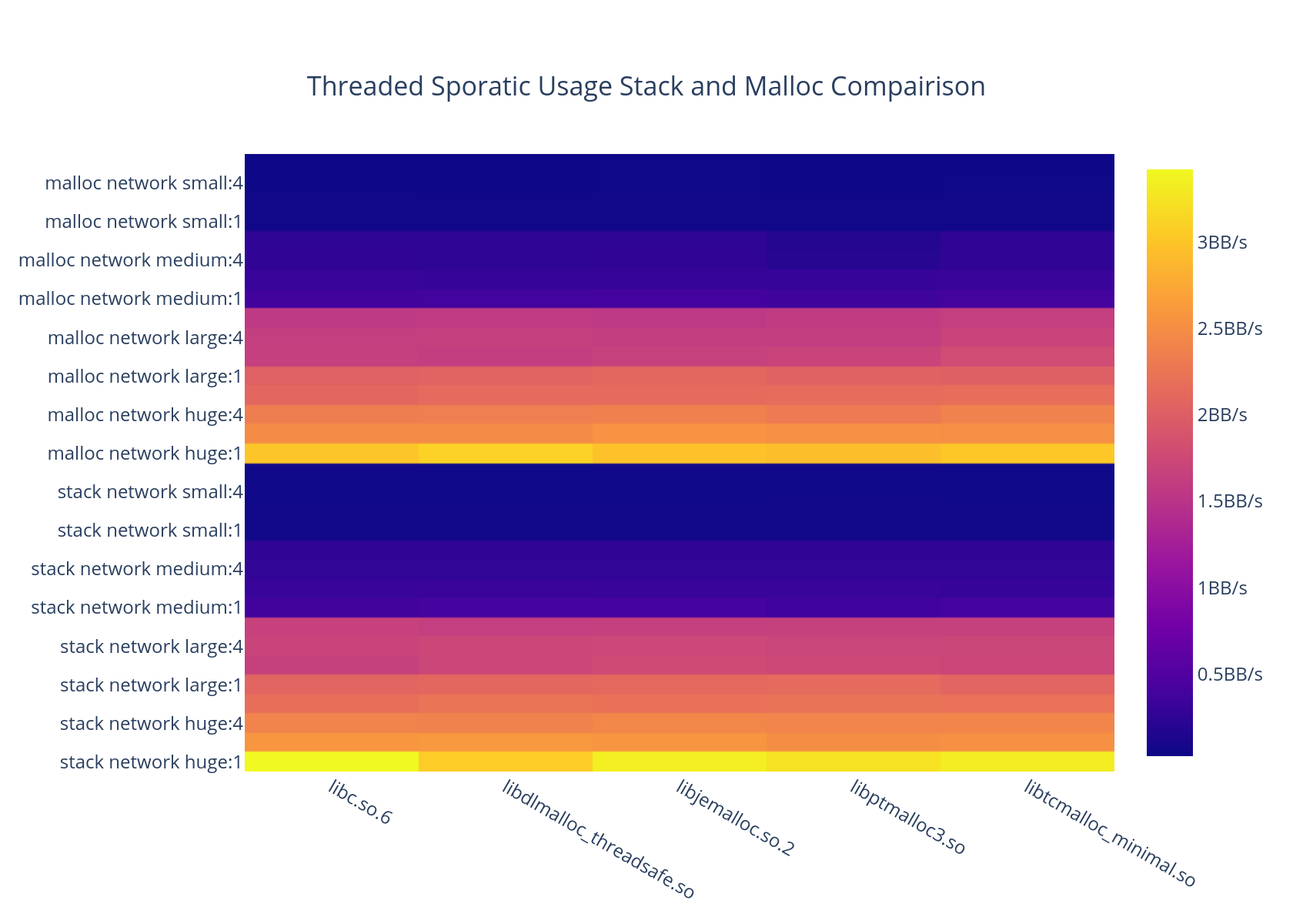
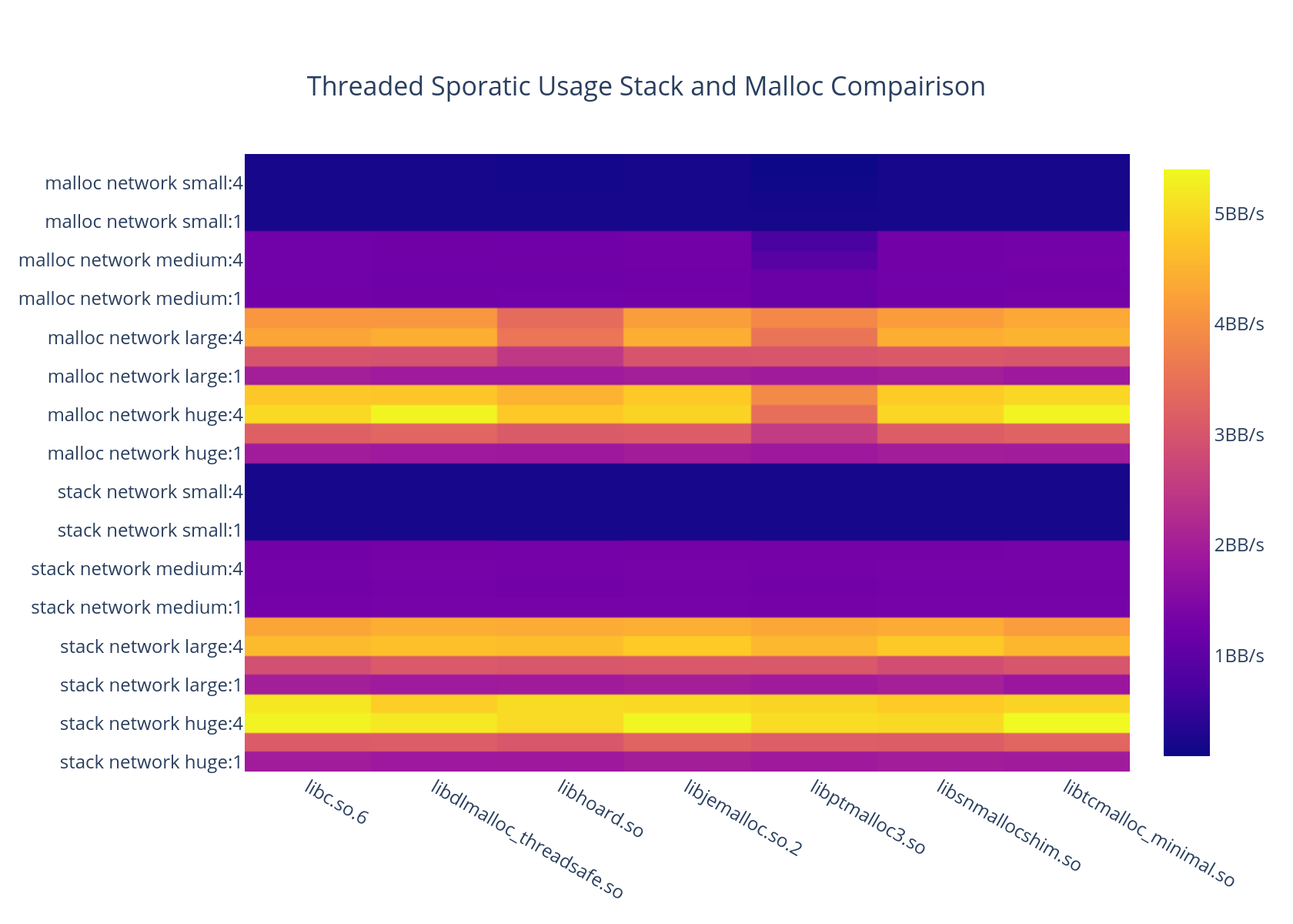
updated pictures and latex to account for snmalloc

diff --git a/docs/allocation.tex b/docs/allocation.tex
@@ -109,10 +109,7 @@ Stack and Heap Allocations: A Cost Comparison
 }
 
 
-\author{Michael D. Merrill$^{1}$% <-this % stops a space
-\thanks{$^{1}$Michael is a Masters student in Computer Sciences, Georgia Tech,
-and a developer for the  }%
-}
+\author{Michael D. Merrill$^{1}$}
 
 % \widowpenalties 1 10000
 % \raggedbottom
@@ -140,13 +137,13 @@ The source code is publicly available at \url{\GitHubLoc}.
 \section{INTRODUCTION}
 
 Allocation algorithms are designed to limit the overhead related to memory management.
-The most common design goals include considerations for computational expenses, effectiveness allocation size, and to provide discrete blocks of memory. 
+The most common design goals include considerations for computational expenses, fragmentation avoidance, and providing discrete blocks of memory. 
 Stack allocation on commonly used architectures, such as Intel x86, involve changing the value of a register to allocate additional space, and are thus standardized by the architecture.
 Dynamic allocation, in contrast, is defined by userspace libraries.
-This allows for multiple implementations of allocators, as well as specialized allocators which offer increased performance benefits for their use cases. 
+This allows for multiple implementations of allocators, as well as specialized allocators which offer increased performance benefits for their intended use cases. 
 
-This paper addresses the performance costs incurred through the use of the stack and heap across their various allocation methods. 
-A number of test algorithms will be used as measurements. 
+This paper addresses the performance costs incurred through the use of the stack and heap across various allocation methods. 
+A number of test algorithms are used as measurements. 
 Each will attempt to measure a discrete feature and function common to all allocation algorithms. 
 Care is taken to ensure that tests do not favor one method over another through intentional use of compiler hints and directives. 
 The test algorithms are designed to mimic common, real world use cases of allocated memory as well as the academic and theoretical maximums of each allocation type. 
@@ -155,26 +152,25 @@ The test algorithms are designed to mimic common, real world use cases of alloca
 %%%%%%%%%%%%%%%%%%%%%%%%%%%%%%%%%%%%%%%%%%%%%%%%%%%%%%%%%%%%%%%%%%%%%%%%%%%%%%%%
 \section{Algorithms}
 
-Algorithm \ref{light_usage_algorithm} is designed to test the baseline performance of the allocator.
+\hyperref[light_usage_algorithm]{Algorithm \ref*{light_usage_algorithm}} is designed to test the baseline performance of the allocator.
 Memory of size $S$ is allocated and stored in the variable $M$.
 A constant value $C$ is then stored at an arbitrary location within the allocated memory, $M_\text{R}$.
 Finally, the memory is deallocated and released to be used by the next iteration or another part of the overall program.
 This is continued until the test is finished; a time determined by the experiment implementation.
 
 \begin{algorithm}[h]
-\caption{Allocation with Light Usage}
-\begin{algorithmic}
-
-\WHILE{test is not finished}
-  \STATE $M \leftarrow allocate(S)$
-  \STATE $M_\text{R} \leftarrow C$
-  \STATE $deallocate(M)$
-\ENDWHILE
-\end{algorithmic}
-\label{light_usage_algorithm}
+  \caption{Allocation with Light Usage}
+  \label{light_usage_algorithm}
+  \begin{algorithmic}
+    \WHILE{test is not finished}
+      \STATE $M \leftarrow allocate(S)$
+      \STATE $M_\text{R} \leftarrow C$
+      \STATE $deallocate(M)$
+    \ENDWHILE
+  \end{algorithmic}
 \end{algorithm}
 
-Algorithm \ref{struct_usage_algorithm}, in a method similar to algorithm \ref{light_usage_algorithm}, begins by allocating memory and storing it into $M$.
+\hyperref[struct_usage_algorithm]{Algorithm \ref*{struct_usage_algorithm}}, in a method similar to \hyperref[light_usage_algorithm]{algorithm \ref*{light_usage_algorithm}}, begins by allocating memory and storing it into $M$.
 In this case $M$ is considered to be a \textbf{C} style structure or similar object of size $S$. 
 All of the members within $M$ are filled with appropriate data, simulating common usage of low level structures.
 After the structure is populated, the deallocation method is used to free the memory.
@@ -182,6 +178,7 @@ Once again, the algorithm loops until a stop condition is met.
 
 \begin{algorithm}[h]
   \caption{Allocation and Initialization of Data Structure}
+  \label{struct_usage_algorithm}
   \begin{algorithmic}
     \WHILE{test is not finished}
       \STATE $M \leftarrow allocate(S)$
@@ -191,10 +188,9 @@ Once again, the algorithm loops until a stop condition is met.
       \STATE $deallocate(M)$
     \ENDWHILE
   \end{algorithmic}
-\label{struct_usage_algorithm}
 \end{algorithm}
 
-One of the most common usages of allocated memory is in network operations, which Algorithm \ref{network_usage_algorithm}, attempts to capture.
+One of the most common usages of allocated memory is in network operations, which \hyperref[network_usage_algorithm]{Algorithm \ref*{network_usage_algorithm}}, attempts to capture.
 In a setup phase, prior to starting the benchmarked portion, a connection to a server is established.
 During the benchmark loop, memory of size $S$ is allocated and stored in $M$.
 Up to $C$ bytes are read from the server into the allocated memory at $M$.
@@ -203,22 +199,22 @@ The loop continues until the test is finished, and the socket is closed.
 
 \begin{algorithm}[h]
   \caption{Allocation with Network Usage}
+  \label{network_usage_algorithm}
   \begin{algorithmic}
-    \STATE $C \leftarrow open()$
+    \STATE $open()$
     \WHILE{test is not finished}
       \STATE $M \leftarrow allocate(S)$
       \STATE $M_\text{R} \leftarrow read(C)$
       \STATE $deallocate(M)$
     \ENDWHILE
-    \STATE $close(C)$
+    \STATE $close()$
   \end{algorithmic}
-  \label{network_usage_algorithm}
 \end{algorithm}
 
 
 %%%%%%%%%%%%%%%%%%%%%%%%%%%%%%%%%%%%%%%%%%%%%%%%%%%%%%%%%%%%%%%%%%%%%%%%%%%%%%%%
 \section{Experiment Methodologies}
-Google's open source Benchmark library is a ``microbenchmark'' framework developed using the Google Test suite.
+Google's open source Benchmark library is a \textit{``microbenchmark''} framework developed using the Google Test suite.
 Benchmark provides a comprehensive environment to gauge code snippet performance with an independent and repeatable approach.
 Each benchmark handler is written in \textbf{C++} and handles the test setup and teardown functionality.
 The portion of code which is being evaluated is written in \textbf{C} to minimize overhead associated with higher level languages, and to produce binary output which is verifiably identical to the associated algorithms.
@@ -231,7 +227,7 @@ Care is taken when discussing test results to ensure comparisons are conducted o
 The tests are measured using various allocation sizes.
 These sizes include \textit{32, 256, 4096, 32768} bytes referred to as small, medium, large, and Huge respectively.
 For each experiment the set of tests are also evaluated across multiple dynamic allocation implementations.
-The set of allocators include \textit{glibc, ptmalloc, jemalloc,} and \textit{tcmalloc}. %and \textit{hoard}.
+The set of allocators include \textit{glibc, ptmalloc, jemalloc, tcmalloc} and \textit{snmalloc}. %and \textit{hoard}.
 This cross section of commonly used general purpose allocators are run independently through dynamic loading.
 
 In order to evaluate each algorithm in multithreaded environments, each test is run with a number of concurrent threads.
@@ -239,37 +235,37 @@ Each test is initially run in a threadless environment for every baseline execut
 After the tests have been completed singly threaded, a multithreaded set of tests is run.
 These tests include running each algorithm with 1, 2, 4, and 8 threads to compare performance.
 
-All experiments are run on a dedicated VPS with $4 \times 2693.67$ MHz CPUs and $8$GB of ram.
-The results shown are the average completion time or throughput of an algorithm after being run for 20 iterations with a minimum of 1 second per iteration.
+All experiments were run in a virtual machine with $4 \times 3700$ MHz CPUs and $8$GB of ram.
+The results shown are the average completion time or throughput of an algorithm after being run for 50 iterations with a minimum of 1 second per iteration.
 
 %%%%%%%%%%%%%%%%%%%%%%%%%%%%%%%%%%%%%%%%%%%%%%%%%%%%%%%%%%%%%%%%%%%%%%%%%%%%%%%%
-\section{Experiment: Algorithm \ref{light_usage_algorithm}}
-In order to obtain a baseline benchmark of allocation times, Algorithm \ref{light_usage_algorithm} is used with the various sizes of $S$.
-Fig. \ref{algo1_complete_hist} shows a comparison of the relative speed differences across the six allocation libraries.
+\section{Experiment: Algorithm \ref*{light_usage_algorithm}}
+In order to obtain a baseline benchmark of allocation times, \hyperref[light_usage_algorithm]{Algorithm \ref*{light_usage_algorithm}} is used with the various sizes of $S$.
+\hyperref[algo1_complete_hist]{Fig. \ref*{algo1_complete_hist}} shows a comparison of the relative speed differences across the seven allocation libraries.
 This figure is specifically highlighting the fastest average completion times across all allocation types.
 
 \begin{figure}[tbh!]
   \centering
   \includegraphics[width=\columnwidth]{graphs/light_hist.png}
-  \caption{ Algo. \ref{light_usage_algorithm}: Comparison of allocation methods in nano seconds }
+  \caption{ \hyperref[light_usage_algorithm]{Algo. \ref*{light_usage_algorithm}}: Comparison of allocation methods in nano seconds }
   \label{algo1_complete_hist}
 \end{figure} 
 
 
-Fig. \ref{algo1_libc.so.6_bar} shows a better comparison of allocation times by organizing the results of a single library by allocation size.
+\hyperref[algo1_libc.so.6_bar]{Fig. \ref*{algo1_libc.so.6_bar}} shows a better comparison of allocation times by organizing the results of a single library by allocation size.
 From the speed comparison for libc.so.6, it becomes evident that calloc is generally the slowest and normal stack allocation is a constant speed across all allocation sizes.
 This figure also shows the progressive time increases that both calloc and initialized stack allocations go through as the allocation size increases.
 It should also be noted that malloc and uninitialized stack allocations have relatively fixed performance costs, despite a small speed decrease in malloc when the size changes from medium to large.
 
 \begin{figure}[tbh!]
   \centering
-  \includegraphics[width=\columnwidth]{{graphs/light_libc.so.6_1s_20}.png} %stupid .'s in file names
-  \caption{ Algo. \ref{light_usage_algorithm}: Performance differences in libc.so.6 between allocation methods at various sizes }
+  \includegraphics[width=\columnwidth]{{graphs/light_libc.so.6_1s_50}.png} %stupid .'s in file names
+  \caption{ \hyperref[light_usage_algorithm]{Algo. \ref{light_usage_algorithm}}: Performance differences in libc.so.6 between allocation methods at various sizes }
   \label{algo1_libc.so.6_bar}
 \end{figure} 
 
-Algorithm \ref{light_usage_algorithm} has consistent performance across all allocation sizes when allocating on the stack.
-Fig. \ref{algo1_stack_malloc_hist} shows a relative comparison between stack allocation and the efficiency of malloc.
+\hyperref[light_usage_algorithm]{Algorithm \ref*{light_usage_algorithm}} has consistent performance across all allocation sizes when allocating on the stack.
+\hyperref[algo1_stack_malloc_hist]{Fig. \ref{algo1_stack_malloc_hist}} shows a relative comparison between stack allocation and the efficiency of malloc.
 From this figure, the performance of malloc across allocation libraries is shown to vary greatly depending on the size of the allocation.
 For most allocation libraries, the difference in performance between stack and malloc allocation is minimal, however some allocation libraries have slightly higher performance costs then others.
 
@@ -280,24 +276,24 @@ Use of bins keeps allocation times relatively constant since previously allocate
 \begin{figure}[tbh!]
   \centering
   \includegraphics[width=\columnwidth]{graphs/light_stack_malloc_hist.png}
-  \caption{ Algo. \ref{light_usage_algorithm}: Stack and Malloc execution times } 
+  \caption{ \hyperref[light_usage_algorithm]{Algo. \ref*{light_usage_algorithm}}: Stack and Malloc execution times } 
   \label{algo1_stack_malloc_hist}
 \end{figure}
 
 The difference in performance between initialization stack allocation and calloc is the time of uninitialized allocation plus the cost of initialization.
-However, looking at Fig. \ref{algo1_libc.so.6_bar} initialized stack allocation does not appear to be following this rule.
+However, looking at \hyperref[algo1_libc.so.6_bar]{Fig. \ref{algo1_libc.so.6_bar}} initialized stack allocation does not appear to be following this rule.
 This is due to the compiler optimizations which perform loop unwinding during initialization of the stack.
-Loop unwinding for reasonably small allocations can be performed with a store of $0$ using an MMX register or other sufficiently large register, as seen in Fig. \ref{algo1_init_small_lst}.
+Loop unwinding for reasonably small allocations can be performed with a store of $0$ using an MMX register or other sufficiently large register, as seen in \hyperref[algo1_init_small_lst]{Fig. \ref*{algo1_init_small_lst}}.
 This is what allows initialized stack allocation for small allocations to perform on par with uninitialized stack allocations in the small allocation tests.
 
-Applying the idea of loop unwinding to calloc however does not work, as see in Fig. \ref{algo1_init_calloc_hist}.
+Applying the idea of loop unwinding to calloc however does not work, as seen in \hyperref[algo1_init_calloc_hist]{Fig. \ref*{algo1_init_calloc_hist}}.
 Since calloc is an external library, it is unable to benefit from the compiler optimizations that the initialized stack allocation does.
 The main reason for this is that calloc is written in such a way so as to allow for general purpose allocation, and can therefore accommodate any size of allocation with a single function.
-Loop unwinding requires knowledge of the size of the allocation so as to unwind the appropriate number of times without overrunning or underrunning the buffer. 
+Loop unwinding requires knowledge of the size of the allocation at compile time so as to unwind the appropriate number of times without overrunning or underrunning the buffer. 
 \begin{figure}[tbh!]
   \centering
   \includegraphics[width=\columnwidth]{graphs/light_init_calloc_hist.png}
-  \caption{ Algo. \ref{light_usage_algorithm}: Initialized Stack and Calloc execution times }
+  \caption{ \hyperref[light_usage_algorithm]{Algo. \ref{light_usage_algorithm}}: Initialized Stack and Calloc execution times }
   \label{algo1_init_calloc_hist}
 \end{figure} 
 
@@ -320,8 +316,8 @@ Loop unwinding requires knowledge of the size of the allocation so as to unwind 
 
 
 Multithreaded execution is known to have a major role in a program's performance, both positively and negatively.
-Fig. \ref{algo1_stack_malloc_threaded_hist} shows how stack and malloc allocations perform while being executed in a multithreaded environment.
-Comparing this figure with Fig. \ref{algo1_complete_hist}, it becomes apparent that while stack allocation speeds remain relatively consistent, malloc can suffer performance loss due to increased contention.
+\hyperref[algo1_stack_malloc_threaded_hist]{Fig. \ref*{algo1_stack_malloc_threaded_hist}} shows how stack and malloc allocations perform while being executed in a multithreaded environment.
+Comparing this figure with \hyperref[algo1_complete_hist]{Fig. \ref*{algo1_complete_hist}}, it becomes apparent that while stack allocation speeds remain relatively consistent, malloc can suffer performance loss due to increased contention.
 However, most libraries remain performant when allocating small and medium sized chunks even at high thread counts.
 It should also be noted that the design of this test causes the greatest possible contention in dynamic allocations due to the near constant allocation requests performed by each thread. 
 While many allocation libraries implement countermeasures to combat contention\footnote{\href{https://sourceware.org/glibc/wiki/MallocInternals\#Thread\_Local\_Cache\_.28tcache.29}{glibc thread local caches}}, there is still additional overhead which must be accounted for.
@@ -329,36 +325,36 @@ While many allocation libraries implement countermeasures to combat contention\f
 \begin{figure}[tbh!]
   \centering
   \includegraphics[width=\columnwidth]{graphs/light_stack_malloc_threaded_hist.png}
-  \caption{ Algo. \ref{light_usage_algorithm}: Comparison of stack and malloc during multithreaded execution }
+  \caption{ \hyperref[light_usage_algorithm]{Algo. \ref*{light_usage_algorithm}}: Comparison of stack and malloc during multithreaded execution }
   \label{algo1_stack_malloc_threaded_hist}
 \end{figure}
 
-Fig. \ref{algo1_init_calloc_threaded_hist} compares initialized stack and calloc allocations in a multithreaded environment, the results are nearly the same as without threads.
+\hyperref[algo1_init_calloc_threaded_hist]{Fig. \ref*{algo1_init_calloc_threaded_hist}} compares initialized stack and calloc allocations in a multithreaded environment, the results are nearly the same as without threads.
 There is nearly identical performance across every library, thread count, and allocation.
 This shows that  the act of initializing memory is far more costly then performance loss due to contention.
 
 \begin{figure}[tbh!]
   \centering
   \includegraphics[width=\columnwidth]{graphs/light_init_calloc_threaded_hist.png}
-  \caption{ Algo. \ref{light_usage_algorithm}: comparison of initalized stack and calloc during multithreaded execution }
+  \caption{ \hyperref[light_usage_algorithm]{Algo. \ref{light_usage_algorithm}}: comparison of initalized stack and calloc during multithreaded execution }
   \label{algo1_init_calloc_threaded_hist}
 \end{figure}
 
 %%%%%%%%%%%%%%%%%%%%%%%%%%%%%%%%%%%%%%%%%%%%%%%%%%%%%%%%%%%%%%%%%%%%%%%%%%%%%%%%
 \section{Experiment: Algorithm \ref{struct_usage_algorithm}}
 
-Algo. \ref{struct_usage_algorithm} provides a real world usage example where a struct is allocated and filled with data before being deallocated.
-This differs from Algo. \ref{light_usage_algorithm} in that it accesses every byte of the allocated memory, not only a small subsection.
+\hyperref[struct_usage_algorithm]{Algo. \ref{struct_usage_algorithm}} provides a real world usage example where a struct is allocated and filled with data before being deallocated.
+This differs from \hyperref[light_usage_algorithm]{Algo. \ref*{light_usage_algorithm}} in that it accesses every byte of the allocated memory, not only a small subsection.
 This pattern matches more closely to what would occur in a real program, rather then allocating and not using the memory.
 
-The overall comparisons between each individual allocation type, the trends seen in Algo. \ref{light_usage_algorithm} appear to hold.
-Fig. \ref{algo2_complete_hist} shows similar completion times for stack and malloc as well as with initalized stack and calloc.
-The results are nearly identical to what was seen in the small and medium allocation sizes for \ref{light_usage_algorithm}.
+The overall comparisons between each individual allocation type, the trends seen in \hyperref[light_usage_algorithm]{Algo. \ref*{light_usage_algorithm}} appear to hold.
+\hyperref[algo2_complete_hist]{Fig. \ref{algo2_complete_hist}} shows similar completion times for stack and malloc as well as with initalized stack and calloc.
+The results are nearly identical to what was seen in the small and medium allocation sizes for \hyperref[light_usage_algorithm]{Algo. \ref*{light_usage_algorithm}}.
 
 \begin{figure}[tbh!]
   \centering
   \includegraphics[width=\columnwidth]{graphs/struct_hist.png}
-  \caption{ Algo. \ref{struct_usage_algorithm}: Comparison of allocation methods in nano seconds }
+  \caption{ \hyperref[struct_usage_algorithm]{Algo. \ref*{struct_usage_algorithm}}: Comparison of allocation methods in nano seconds }
   \label{algo2_complete_hist}
 \end{figure} 
 
@@ -381,9 +377,9 @@ The results are nearly identical to what was seen in the small and medium alloca
 %   \label{algo2_init_calloc_hist}
 % \end{figure} 
 
-When comparing allocation times in Algo. \ref{light_usage_algorithm}, it was noted that there was a slight decrease in contention due to the time spent on intializing memory.
+When comparing allocation times in \hyperref[light_usage_algorithm]{Algo. \ref{light_usage_algorithm}}, it was noted that there was a slight decrease in contention due to the time spent on intializing memory.
 Carrying this idea over, it is expected that, since every byte is being written to, there should be lower latency.
-In Fig. \ref{algo2_complete_threaded_hist}, this can be seen by overall faster average allocation speeds across all thread counts.
+In \hyperref[algo2_complete_threaded_hist]{Fig. \ref{algo2_complete_threaded_hist}}, this can be seen by overall faster average allocation speeds across all thread counts.
 
 \begin{figure}[tbh!]
   \centering
@@ -393,38 +389,38 @@ In Fig. \ref{algo2_complete_threaded_hist}, this can be seen by overall faster a
 \end{figure}
 
 %%%%%%%%%%%%%%%%%%%%%%%%%%%%%%%%%%%%%%%%%%%%%%%%%%%%%%%%%%%%%%%%%%%%%%%%%%%%%%%%
-\section{Experiment: Algorithm \ref{network_usage_algorithm}}
+\section{Experiment: Algorithm \ref*{network_usage_algorithm}}
 
-While Algo. \ref{struct_usage_algorithm}'s struct usage is the natural progression from towards real world usage after Algo. \ref{light_usage_algorithm}, there is still room for improvement.
+While \hyperref[struct_usage_algorithm]{Algo. \ref*{struct_usage_algorithm}'s} struct usage is the natural progression from towards real world usage after \hyperref[light_usage_algorithm]{Algo. \ref{light_usage_algorithm}}, there is still room for improvement.
 Most small allocations are used to create structs or similar data structures, whereas large allocations are generally used in I/O operations.
-Therefore Algo \ref{network_usage_algorithm} simulates network usage by reading as much as possible from a socket into an allocated buffer.
+Therefore \hyperref[network_usage_algorithm]{Algo \ref*{network_usage_algorithm}} simulates network usage by reading as much as possible from a socket into an allocated buffer.
 This test is implemented by running a local \textbf{ncat} server which executes off a new instance of the \textbf{yes} linux program whenever it receives a new connection.
 
 The results of this experiment show interesting results which may come as a surprise compared to previous experiments.
-Fig. \ref{algo3_complete_hist} shows how larger allocation sizes, even if they are slower to allocate, have significantly higher throughput during network operations.
+\hyperref[algo3_complete_hist]{Fig. \ref*{algo3_complete_hist}} shows how larger allocation sizes, even if they are slower to allocate, have significantly higher throughput during network operations.
 
 \begin{figure}[tbh!]
   \centering
   \includegraphics[width=\columnwidth]{graphs/sporatic_hist.png}
-  \caption{ Algo \ref{network_usage_algorithm}: Comparison of network transfer speed across allocation types. results in Billion Bytes per Second. }
+  \caption{ \hyperref[network_usage_algorithm]{Algo \ref{network_usage_algorithm}}: Comparison of network transfer speed across allocation types. results in Billion Bytes per Second. }
   \label{algo3_complete_hist}
 \end{figure}
 
-Similarly when Algo \ref{network_usage_algorithm} is run in parallel threads, we see increased throughput for larger allocation sizes.
-The increased allocation latency that has been seen in Algo. \ref{light_usage_algorithm}, becomes irrelevant when compared to the speed of network operations.
-Another interesting point of note in Fig. \ref{algo3_complete_threaded_hist} is the decrease in throughput as the threadcount increases.
+Similarly when \hyperref[network_usage_algorithm]{Algo \ref*{network_usage_algorithm}} is run in parallel threads, we see increased throughput for larger allocation sizes.
+The increased allocation latency that has been seen in \hyperref[light_usage_algorithm]{Algo. \ref*{light_usage_algorithm}}, becomes irrelevant when compared to the speed of network operations.
+Another interesting point of note in \hyperref[algo3_complete_threaded_hist]{Fig. \ref*{algo3_complete_threaded_hist}} is the decrease in throughput as the threadcount increases.
 This tends to affect all allocation types equally, and is due to kernel overheads involved with the volume of network traffic being generated and consumed.
 
 \begin{figure}[tbh!]
   \centering
   \includegraphics[width=\columnwidth]{graphs/sporatic_threaded_hist.png}
-  \caption{ Algo \ref{network_usage_algorithm}: Network throughput in threaded environment}
+  \caption{ \hyperref[network_usage_algorithm]{Algo \ref{network_usage_algorithm}}: Network throughput in threaded environment}
   \label{algo3_complete_threaded_hist}
 \end{figure}
 
 \pagebreak
-Looking specifically at stack and malloc allocation in Fig. \ref{algo3_stack_malloc_hist}, there is minimal difference between the two within the allocation sizes.
-Similarly initialized stack and calloc have network through puts across the allocation sizes in Fig. \ref{algo3_init_calloc_hist}.
+Looking specifically at stack and malloc allocation in \hyperref[algo3_stack_malloc_hist]{Fig. \ref{algo3_stack_malloc_hist}}, there is minimal difference between the two within the allocation sizes.
+Similarly initialized stack and calloc have network through puts across the allocation sizes in \hyperref[algo3_init_calloc_hist]{Fig. \ref{algo3_init_calloc_hist}}.
 This reinforces that the speed of the allocation pales in comparison to how it is being used.
 
 \begin{figure}[tbh!]
@@ -437,7 +433,7 @@ This reinforces that the speed of the allocation pales in comparison to how it i
 \begin{figure}[tbh!]
   \centering
   \includegraphics[width=\columnwidth]{graphs/sporatic_init_calloc_hist.png}
-  \caption{ Algo \ref{network_usage_algorithm}: initalized stack and calloc network throughput comparison }
+  \caption{ \hyperref[network_usage_algorithm]{Algo \ref{network_usage_algorithm}}: initalized stack and calloc network throughput comparison }
   \label{algo3_init_calloc_hist}
 \end{figure}
 
@@ -447,9 +443,9 @@ This reinforces that the speed of the allocation pales in comparison to how it i
 
 %%%%%%%%%%%%%%%%%%%%%%%%%%%%%%%%%%%%%%%%%%%%%%%%%%%%%%%%%%%%%%%%%%%%%%%%%%%%%%%%
 \section{Conclusions}
-The empirical latency of allocation operations was shown in Algo. \ref{light_usage_algorithm}.
-With Algo. \ref{struct_usage_algorithm} the short term simple usage of memory was put on display.
-Finally in Algo. \ref{network_usage_algorithm}, a comparison of allocation speed and IO operations was presented.
+The empirical latency of allocation operations was shown in \hyperref[light_usage_algorithm]{Algo. \ref*{light_usage_algorithm}}.
+With \hyperref[struct_usage_algorithm]{Algo. \ref*{struct_usage_algorithm}} the short term simple usage of memory was put on display.
+Finally in \hyperref[network_usage_algorithm]{Algo. \ref*{network_usage_algorithm}}, a comparison of allocation speed and IO operations was presented.
 
 With all this data, there are a few conclusions which can be drawn.
 To begin, malloc and calloc are empirically slower then stack and initalized stack allocations.

diff --git a/README.md b/README.md
@@ -18,7 +18,7 @@ The following programs are required to build this project
 git submodule update --init --recursive
 mkdir build
 cd build
-cmake .. -DCMAKE_BUILD_TYPE=Release
+cmake .. -DCMAKE_BUILD_TYPE=Release -DCMAKE_INSTALL_PREFIX=$(pwd)/bin
 make
 make install
 ```
@@ -38,7 +38,21 @@ cd build/bin
 ./run_tests.sh
 ```
 
+## Install dependencies for graph generation
+```
+python3 -m virtualenv venv
+source venv/bin/activate
+pip3 install -r requirements.txt
+```
+
 ## Display results
+From the build directory, and after run_tests.sh
 ```
 ./code/graph.py light_usage_test.results -g 'small' 'large' 'struct' 'recursive'
+```
+
+## Create graphs for pdf
+```
+mkdir graphs
+./bin/create_graphs.sh bin/ output/ graphs
 ```
